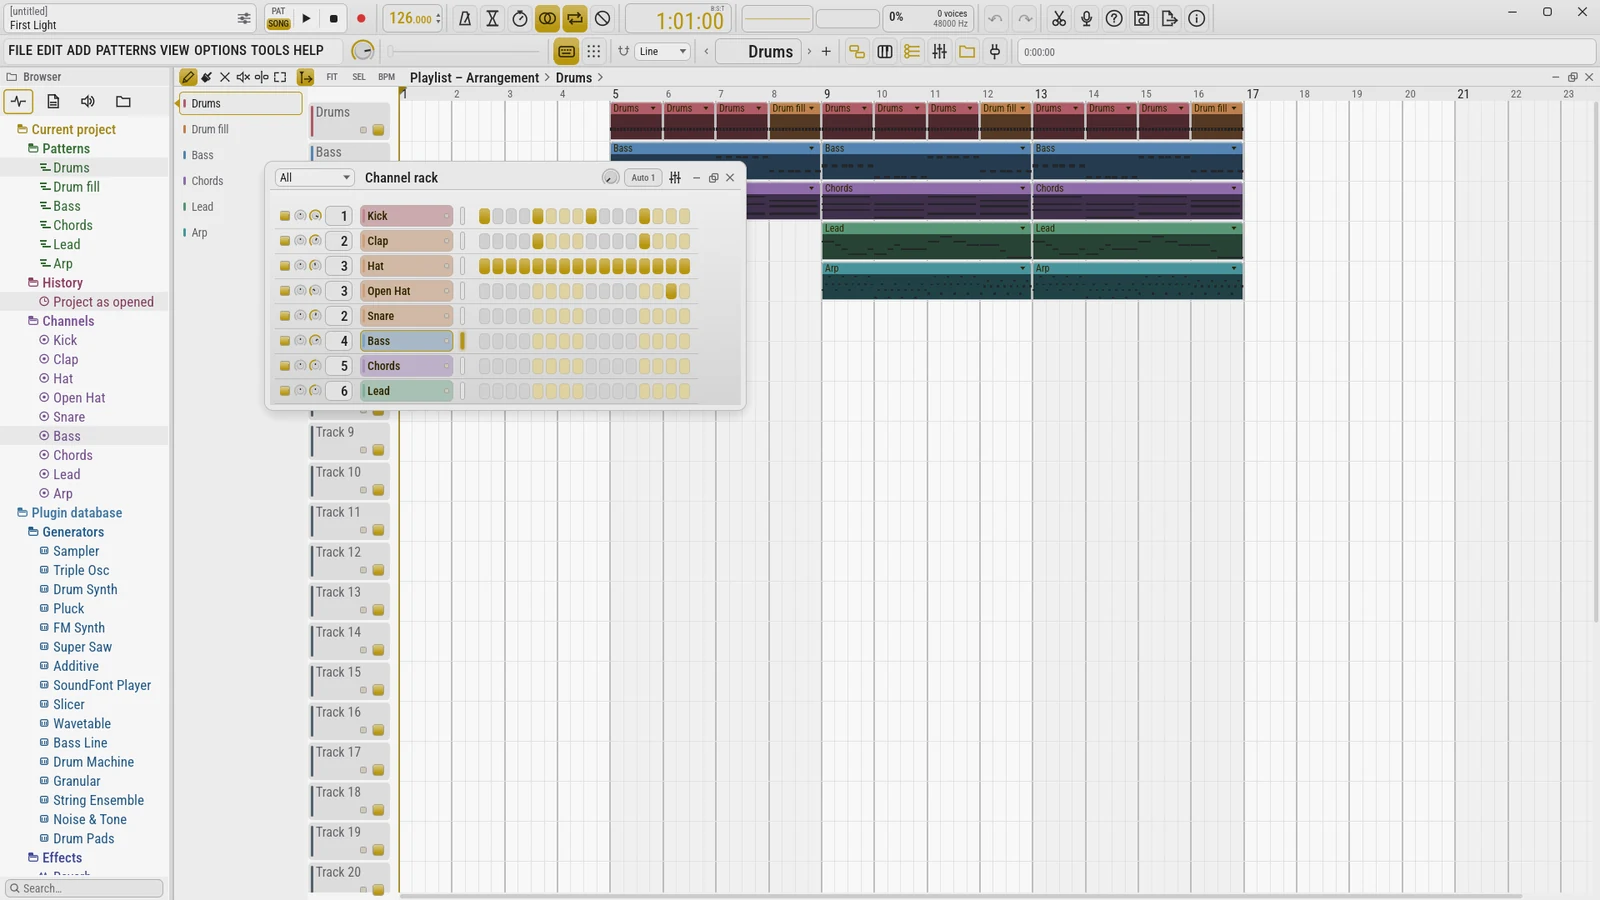
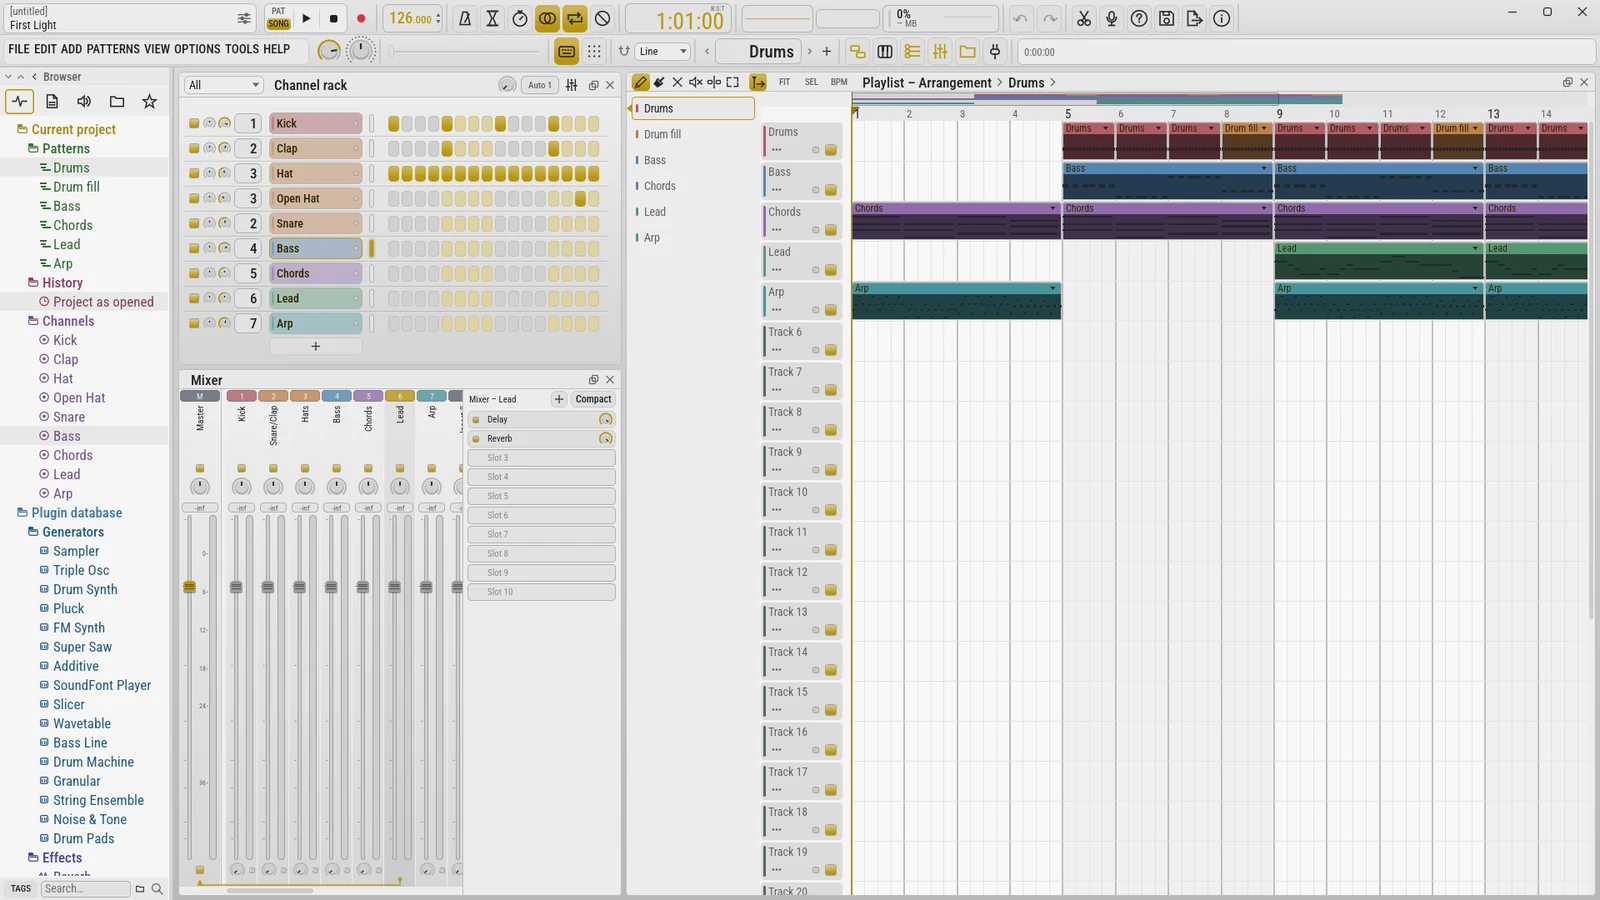
Update the LoopCraft screenshots to the docked layout
Re-rendered upstream (storytold/loopcraft 37c0538): the docked desk,
smaller type, and the new master pitch knob and CPU monitor.

Changed region(s): [[0.0, 0.0, 1.0, 1.0], [0.6562, 0.0, 0.7812, 0.0311], [0.0, 0.9644, 0.0625, 1.0]]

diff --git a/frontend/apps/artcraft-website-next/src/lib/crafting-apps.ts b/frontend/apps/artcraft-website-next/src/lib/crafting-apps.ts
@@ -690,8 +690,8 @@ export const CRAFTING_APPS: CraftApp[] = [
       {
         file: "hero.webp",
         source: "loopcraft-hero.png",
-        caption: "First Light — playlist and channel rack",
-        alt: "LoopCraft with its demo song open: the browser on the left, the playlist filling the workspace with coloured pattern clips across sixteen bars, and the channel rack with its step sequencer floating over it",
+        caption: "First Light — channel rack, mixer and playlist",
+        alt: "LoopCraft with its demo song open: the browser on the left, the channel rack above the mixer, and the playlist filling the right with coloured pattern clips across fourteen bars",
         wide: true,
       },
       {
@@ -711,8 +711,8 @@ export const CRAFTING_APPS: CraftApp[] = [
       {
         file: "instruments.webp",
         source: "instrument-and-mixer.png",
-        caption: "Instrument editor beside the channel rack",
-        alt: "LoopCraft's three-oscillator instrument editor, a grid of knobs for the oscillators, an envelope and a filter, floating beside the channel rack over the mixer",
+        caption: "Instrument editor over the playlist",
+        alt: "LoopCraft's three-oscillator instrument editor, a grid of knobs for the oscillators, an envelope and a filter, floating over the playlist beside the channel rack and mixer",
         wide: true,
       },
     ],
